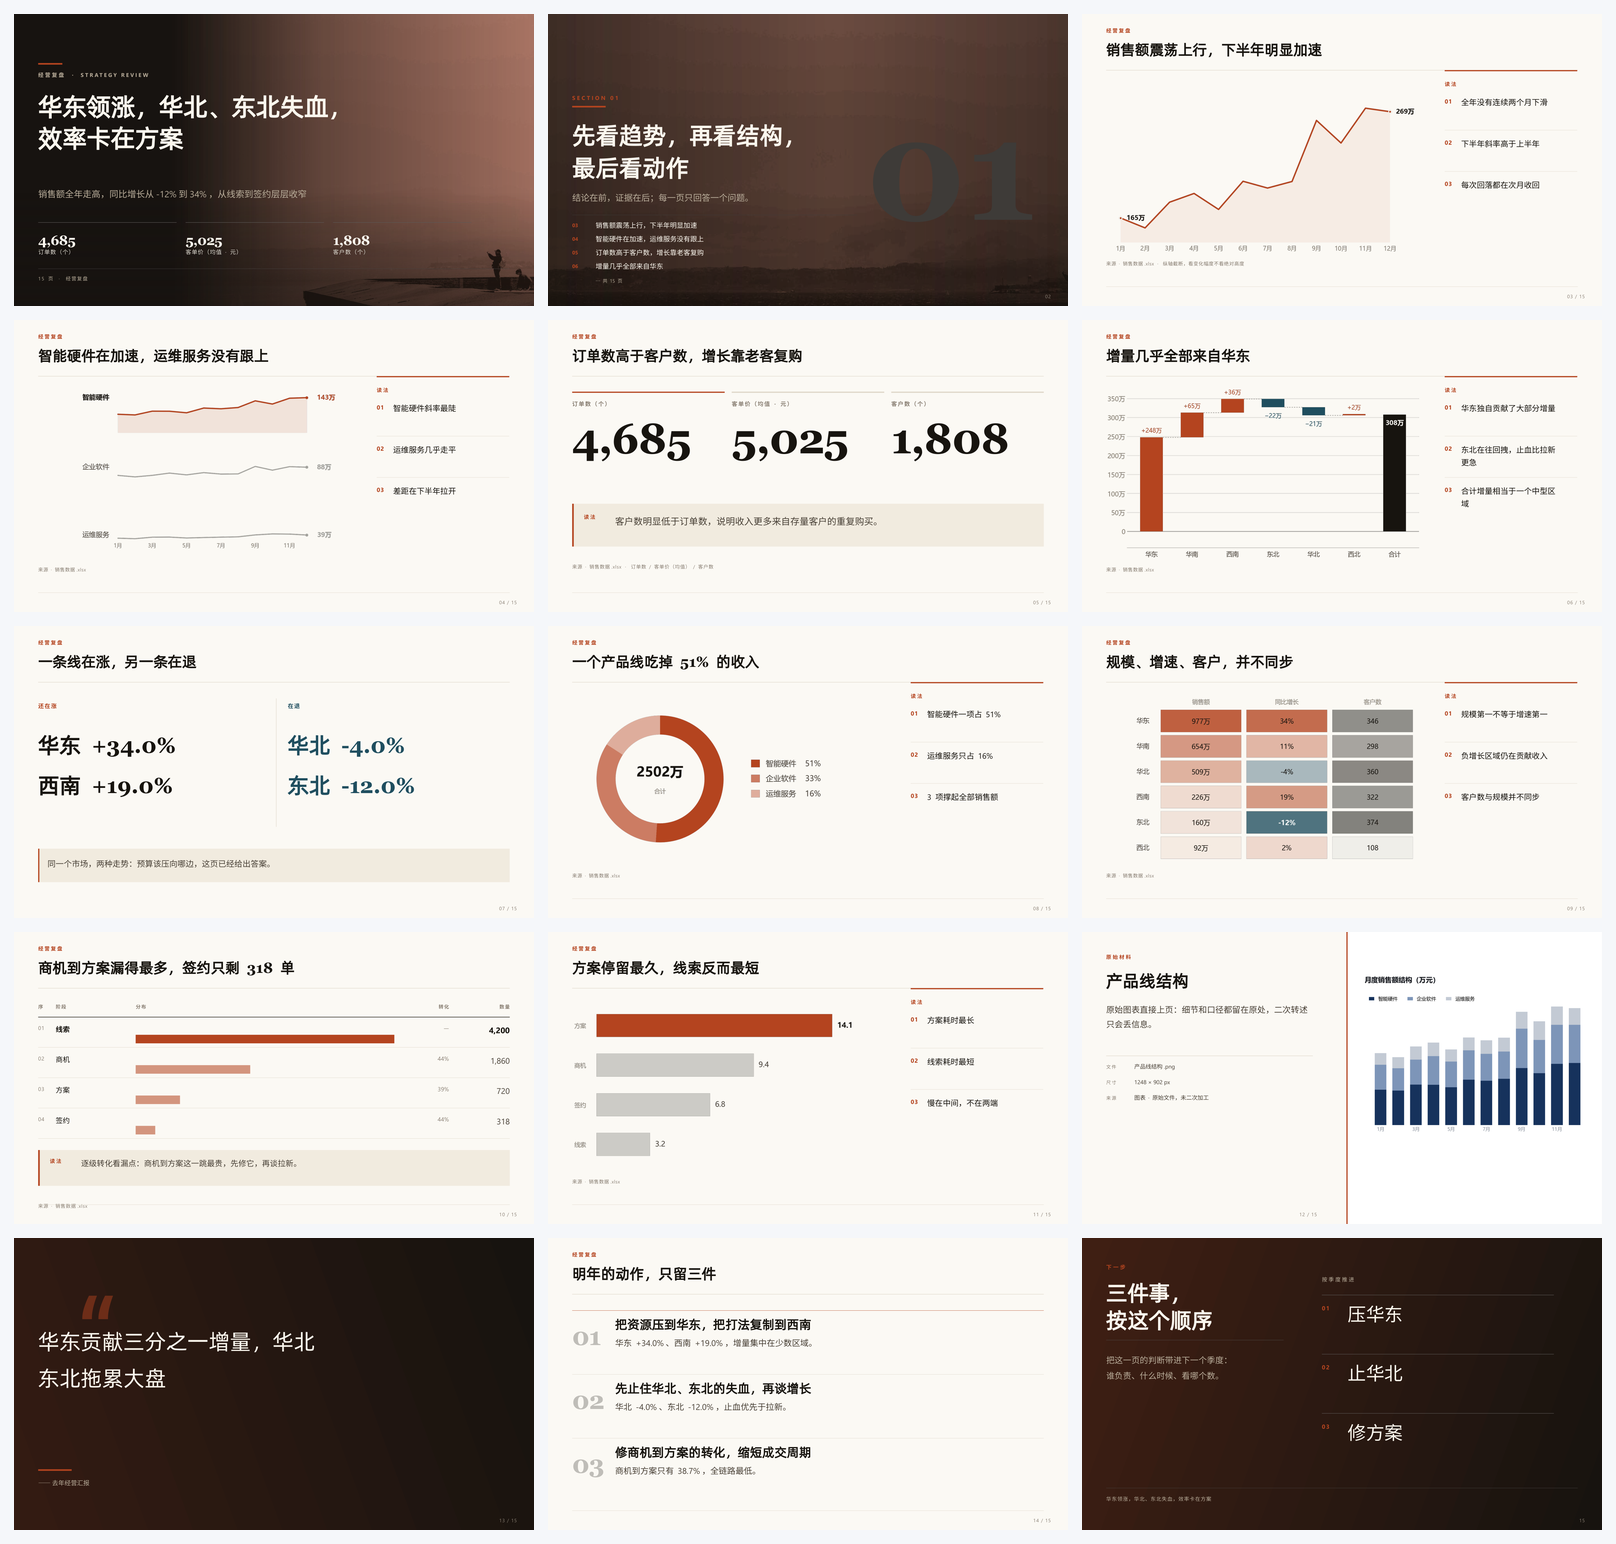
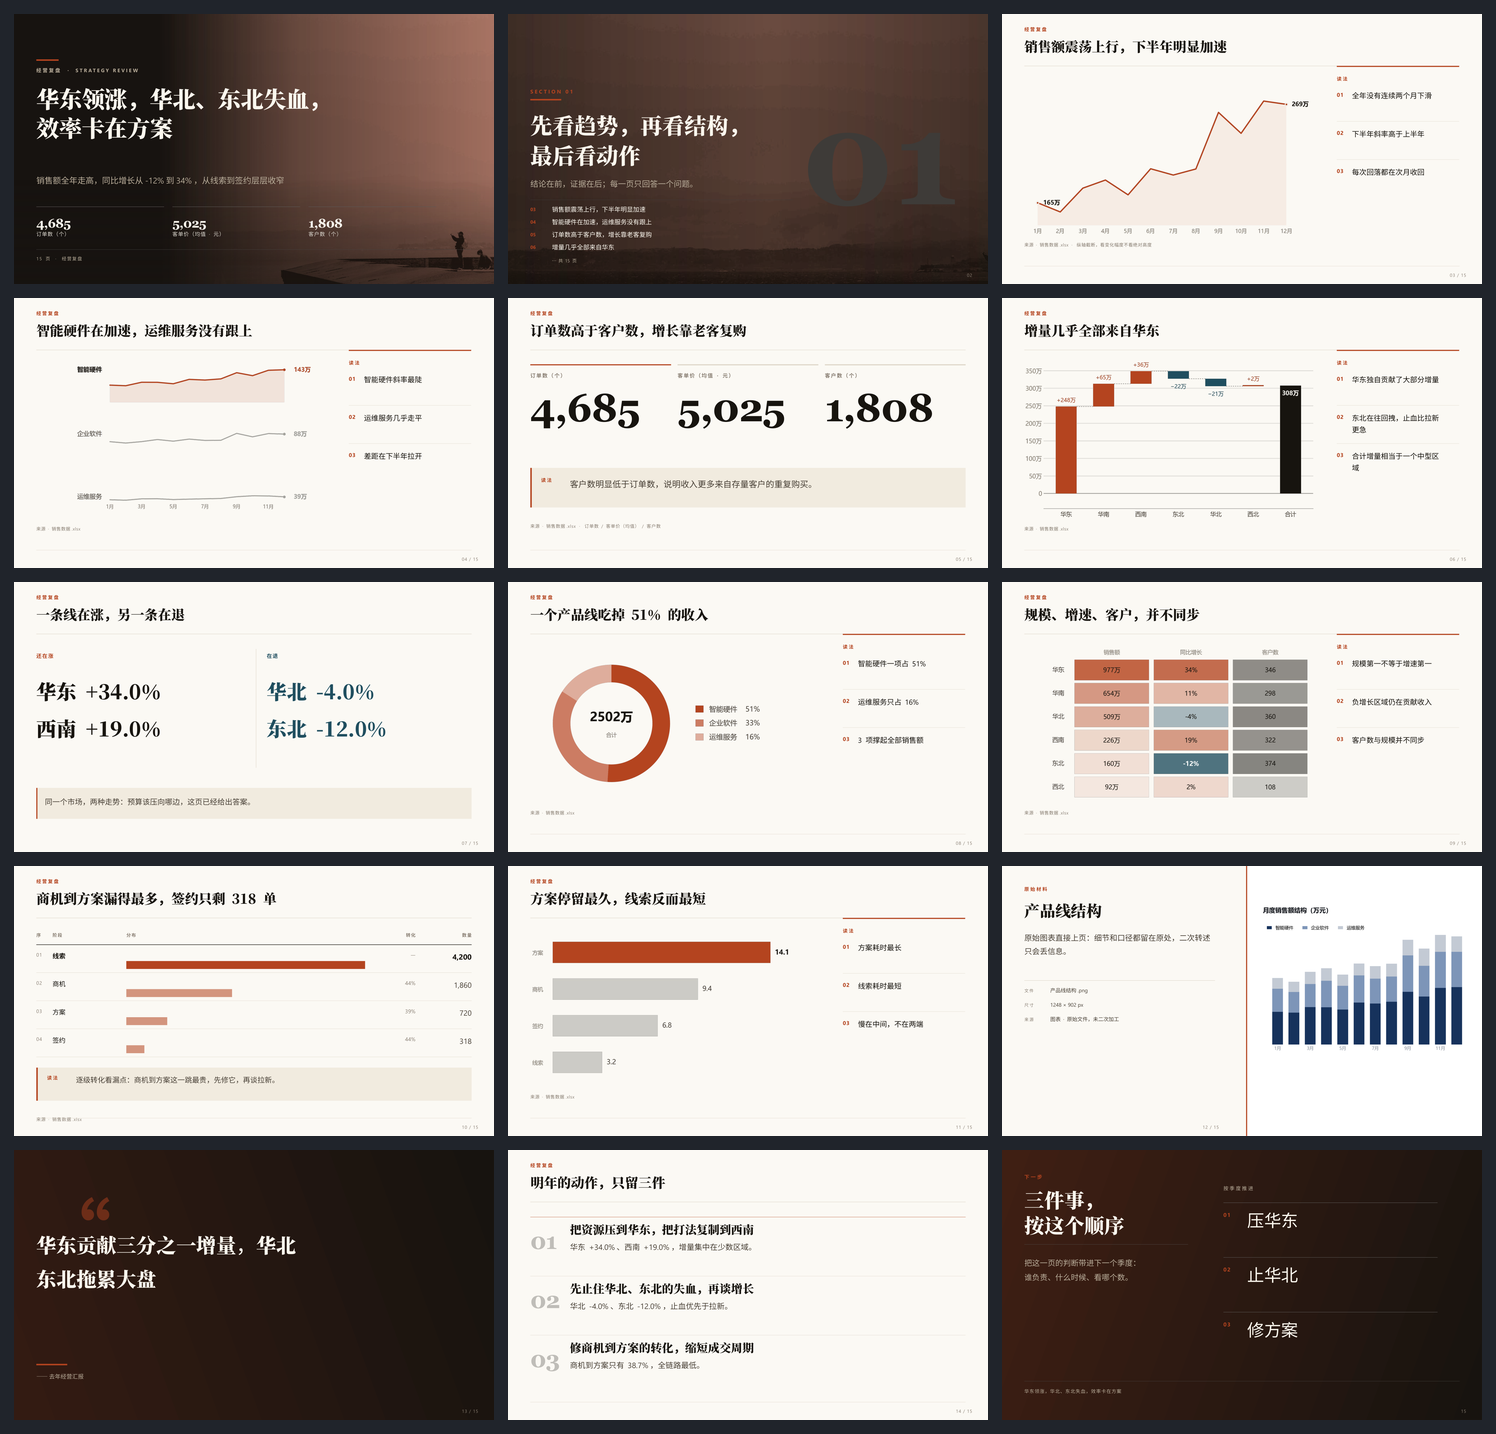
docs: the new serif on the cover, and the sheet regenerated

diff --git a/README.md b/README.md
@@ -8,7 +8,7 @@
 
 不是一个套模板的「一键生成」。它先把你手上的材料读懂、算清楚，再按一套从 19 份真实 deck（1144 页）里量出来的设计规范排版；模型可以主导论证，但**任何一个数字都必须能指回原始表格**。
 
-> **下载即用**：[Deck Studio 0.9.1 · Windows x64](https://github.com/maquekenzhegua/deck-studio/releases/latest) — 解压后双击 `Deck Studio.exe`，不需要装 Python。不需要装 Office：本机有 LibreOffice 就能逐页预览（没有的话 PPTX 照常导出，只是不出预览图）。
+> **下载即用**：[Deck Studio 0.9.2 · Windows x64](https://github.com/maquekenzhegua/deck-studio/releases/latest) — 解压后双击 `Deck Studio.exe`，不需要装 Python。不需要装 Office：本机有 LibreOffice 就能逐页预览（没有的话 PPTX 照常导出，只是不出预览图）。
 
 ![Deck Studio](docs/app-window.png)
 
@@ -114,6 +114,8 @@ python -m deck.cli notes  samples/data --plan out/plan.json -o out/plan-notes.js
 没有 LibreOffice 才退回 PowerPoint COM（机器上只装 WPS 时 COM 会不稳）；两条路都没有时 PPTX 照常写出，只是不给逐页预览。
 
 ## 设计不是拍脑袋
+
+标题用**思源宋体**（本机缺字体时依次退到华文宋体、宋体），正文用 Noto Sans SC：章节页、封面、收尾是「印刷品」的语气，数据页保持无衬线的中性。字号、栅格、图表密度都来自下面这组实测，不是凭感觉。
 
 `docs/design-language.md` 记录了量出来的东西，而不是「我觉得好看」：
 
